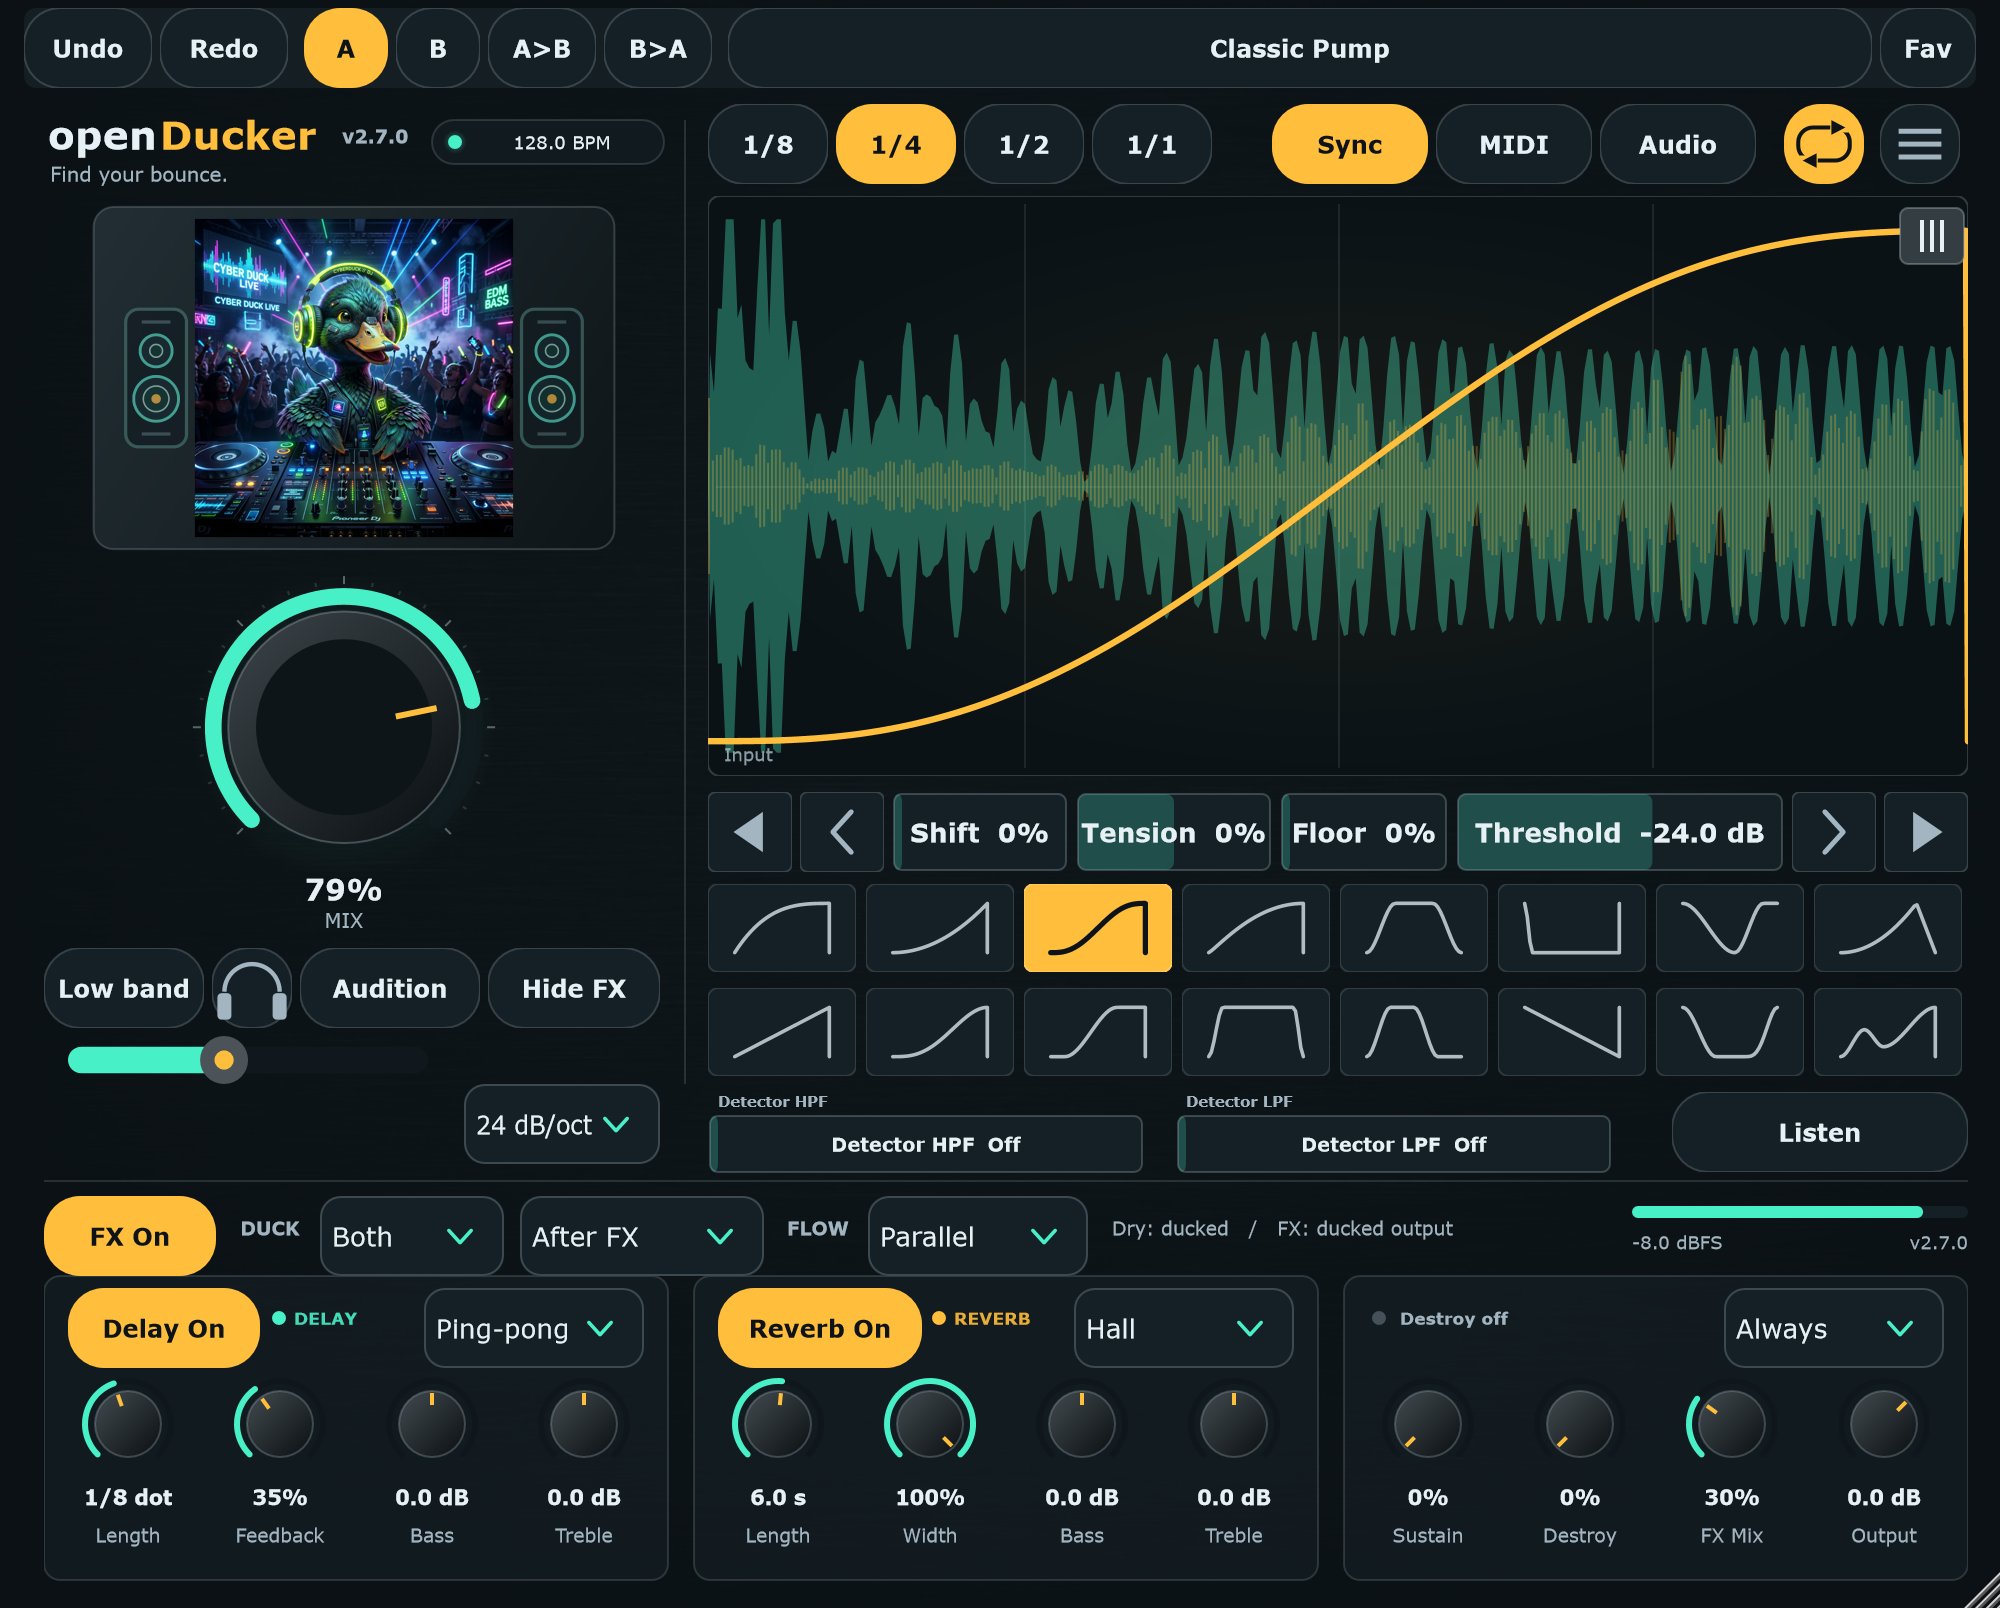
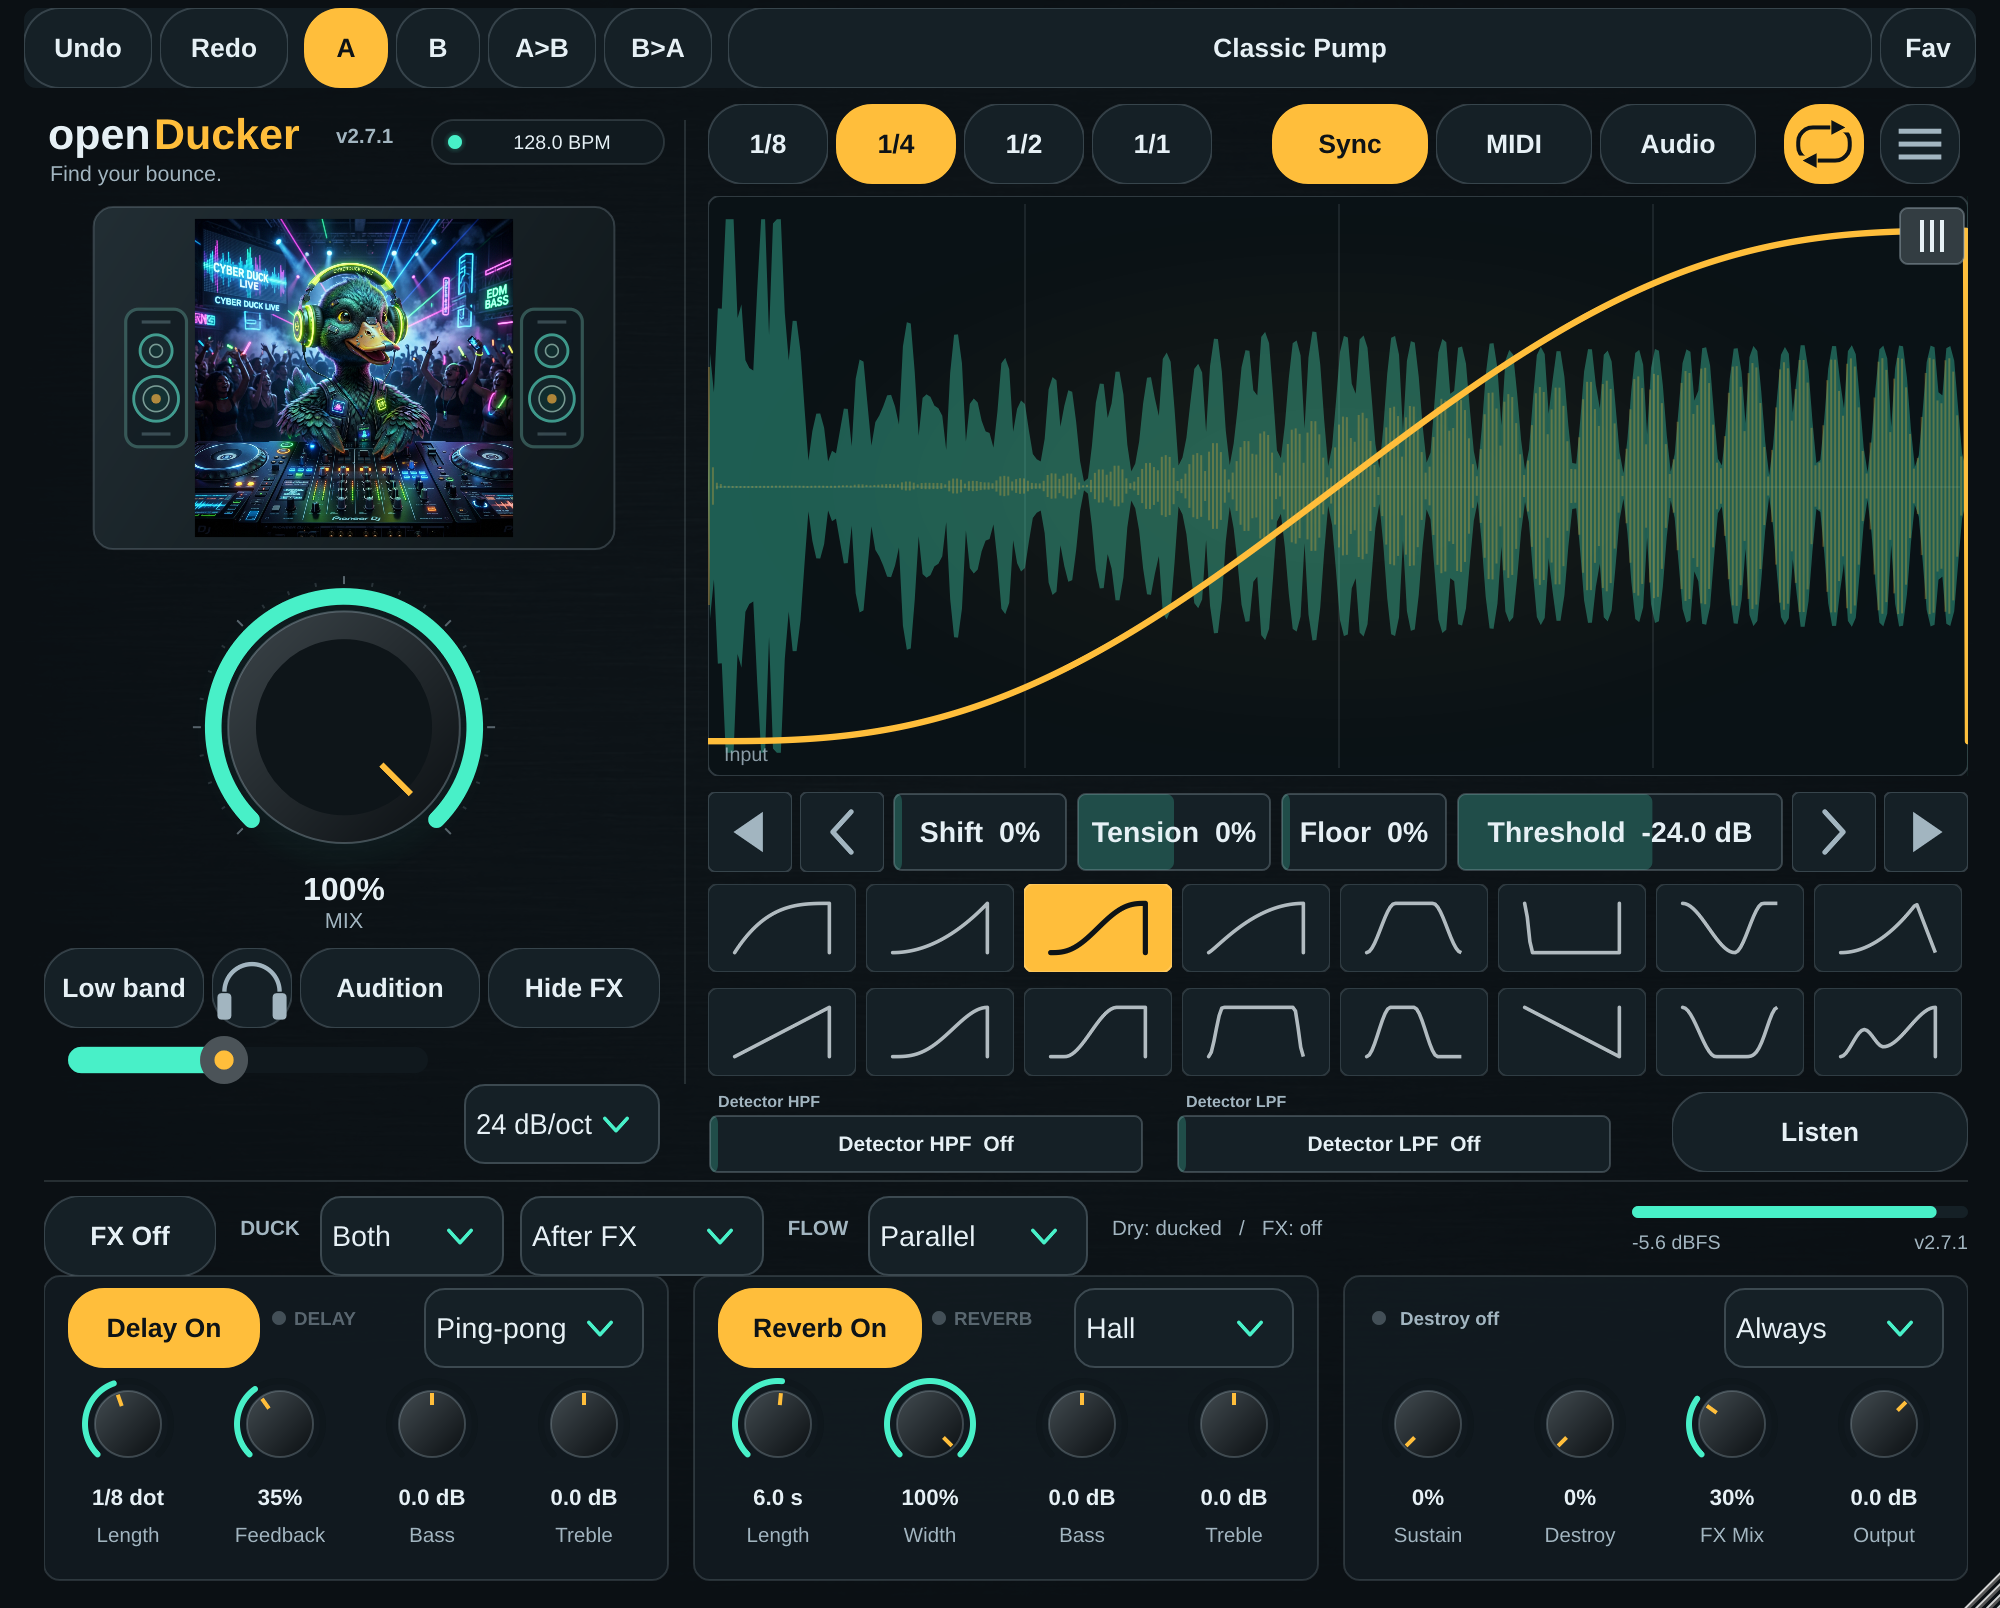
docs: refresh the factory-default editor preview
Capture the editor at its default size on the Classic Pump patch. update-preview
was keeping the previous image unless Source, assets, Tools, or Tests changed,
so the v2.7.1 push never replaced the screenshot even though the version drawn
on the editor comes from CMakeLists.txt.

diff --git a/Tools/PluginTests.cpp b/Tools/PluginTests.cpp
@@ -750,6 +750,23 @@ int main(int argc, char** argv) {
         testEffectsControls(p, *editor);
         testEqDetents(p, *editor);
         testSuite(p, *editor);
+        {
+            // README and OpenVST Manager show this capture: the editor at the size it opens,
+            // on the first factory patch, not the Sync demo configured below.
+            Host previewHost;
+            previewHost.position.setIsPlaying(true);
+            previewHost.position.setBpm(128);
+            previewHost.position.setPpqPosition(0);
+            DuckerProcessor previewProcessor;
+            previewProcessor.setPlayHead(&previewHost);
+            previewProcessor.prepareToPlay(sampleRate, 512);
+            require(previewProcessor.getCurrentProgram() == 0 && previewProcessor.getProgramName(0) == "Classic Pump", "Factory default patch is not Classic Pump");
+            require(std::abs(get(previewProcessor, "mix") - 100.0f) < 0.2f && get(previewProcessor, "fxEnabled") < 0.5f, "Factory default patch was modified");
+            std::unique_ptr<juce::AudioProcessorEditor> previewEditor(previewProcessor.createEditor());
+            previewProcessor.reset();
+            render<float>(previewProcessor, previewHost, 0, static_cast<long>(beatSamples) * 2, false);
+            save(*previewEditor, output, "preview.png");
+        }
         for(auto* parameter : p.getParameters()) parameter->setValueNotifyingHost(parameter->getDefaultValue());
         for(const auto& [id, value] : std::initializer_list<std::pair<const char*, float>> {{"rate", 1}, {"trigger", 0}, {"curve", 2}, {"mix", 79},
             {"shift", 0}, {"threshold", -24}, {"retrigger", 1}, {"bandFrequency", 150}, {"smoothing", 1}, {"length", 100}, {"fxEnabled", 1}}) set(p, id, value);
